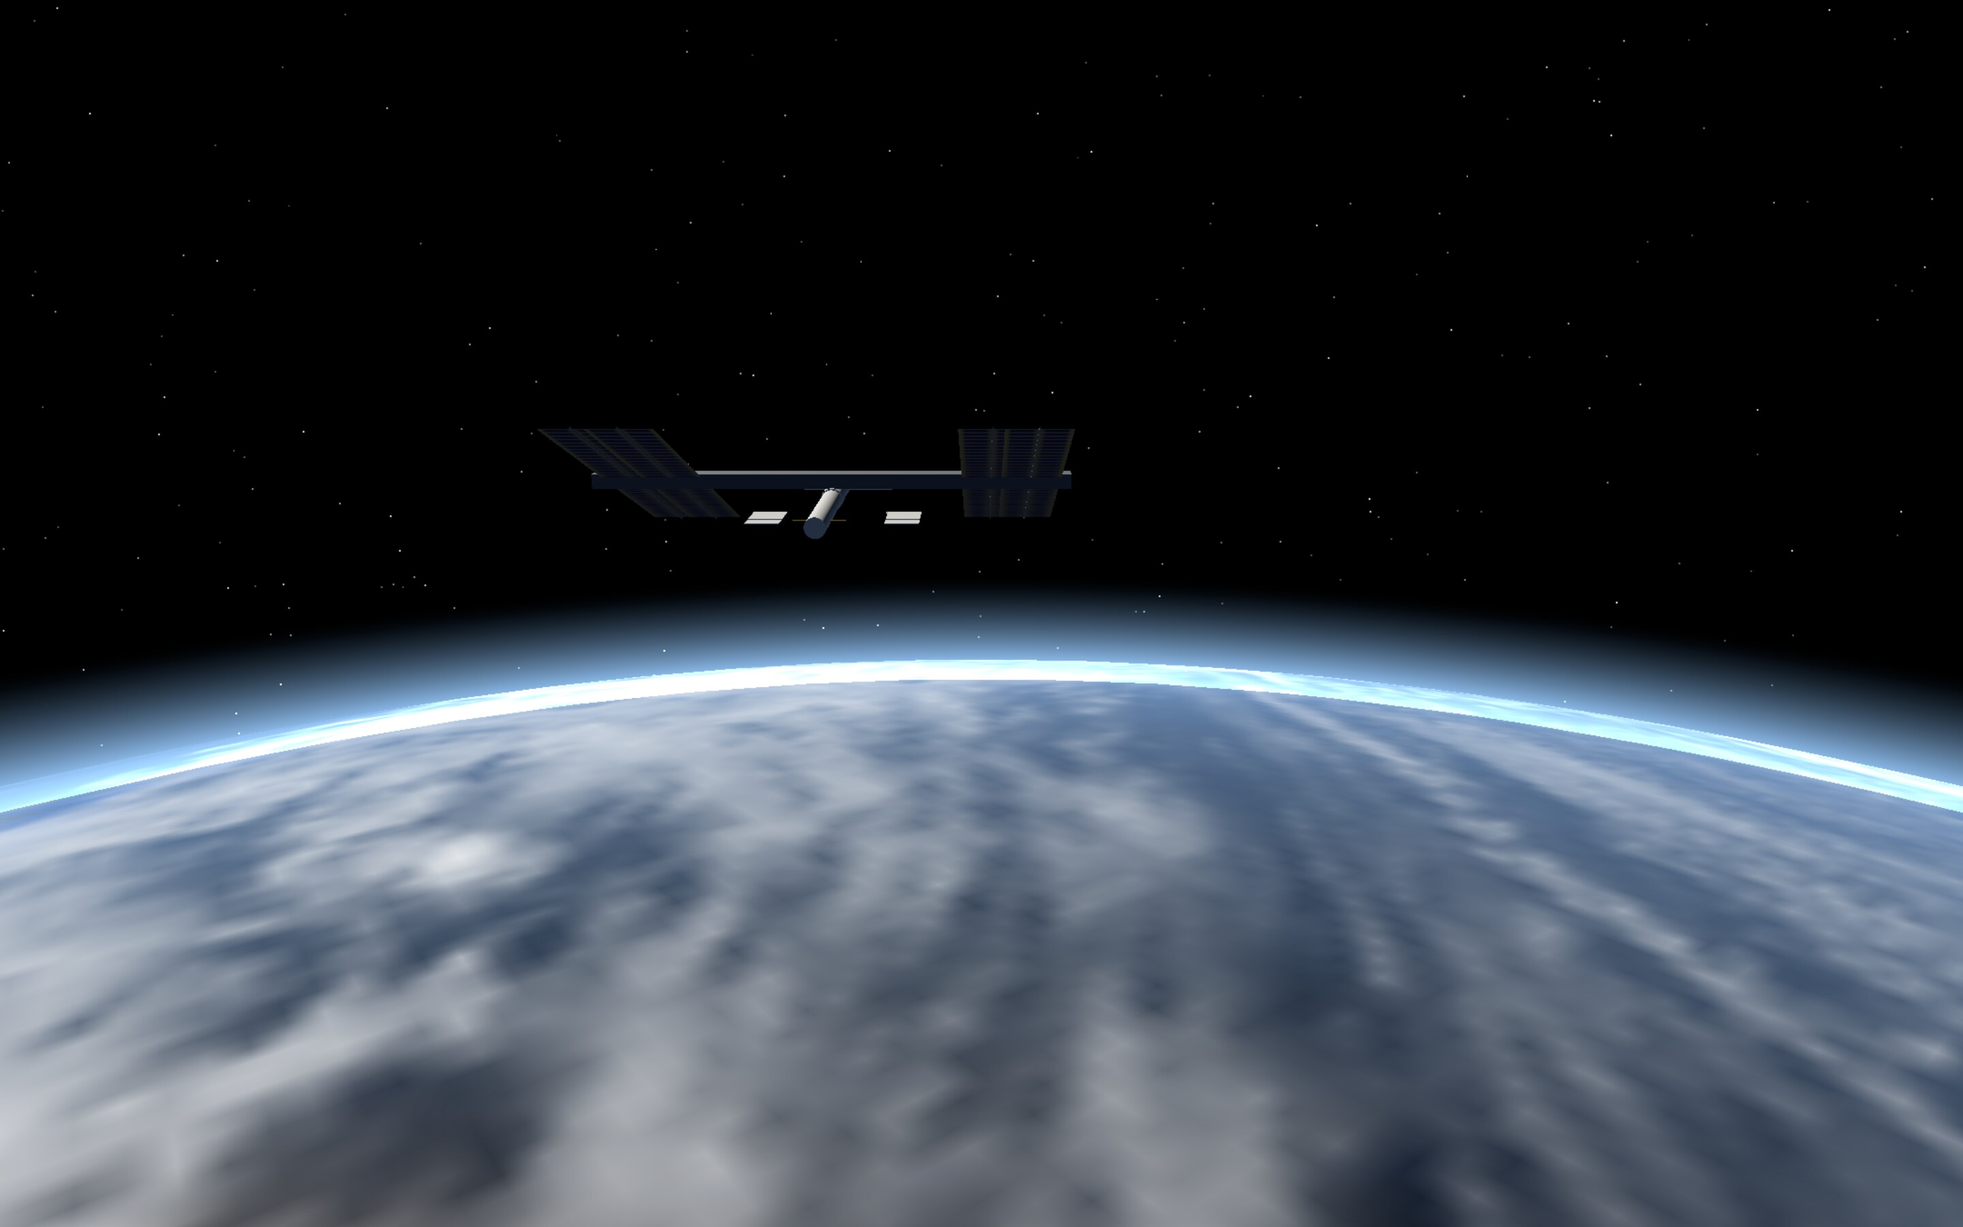
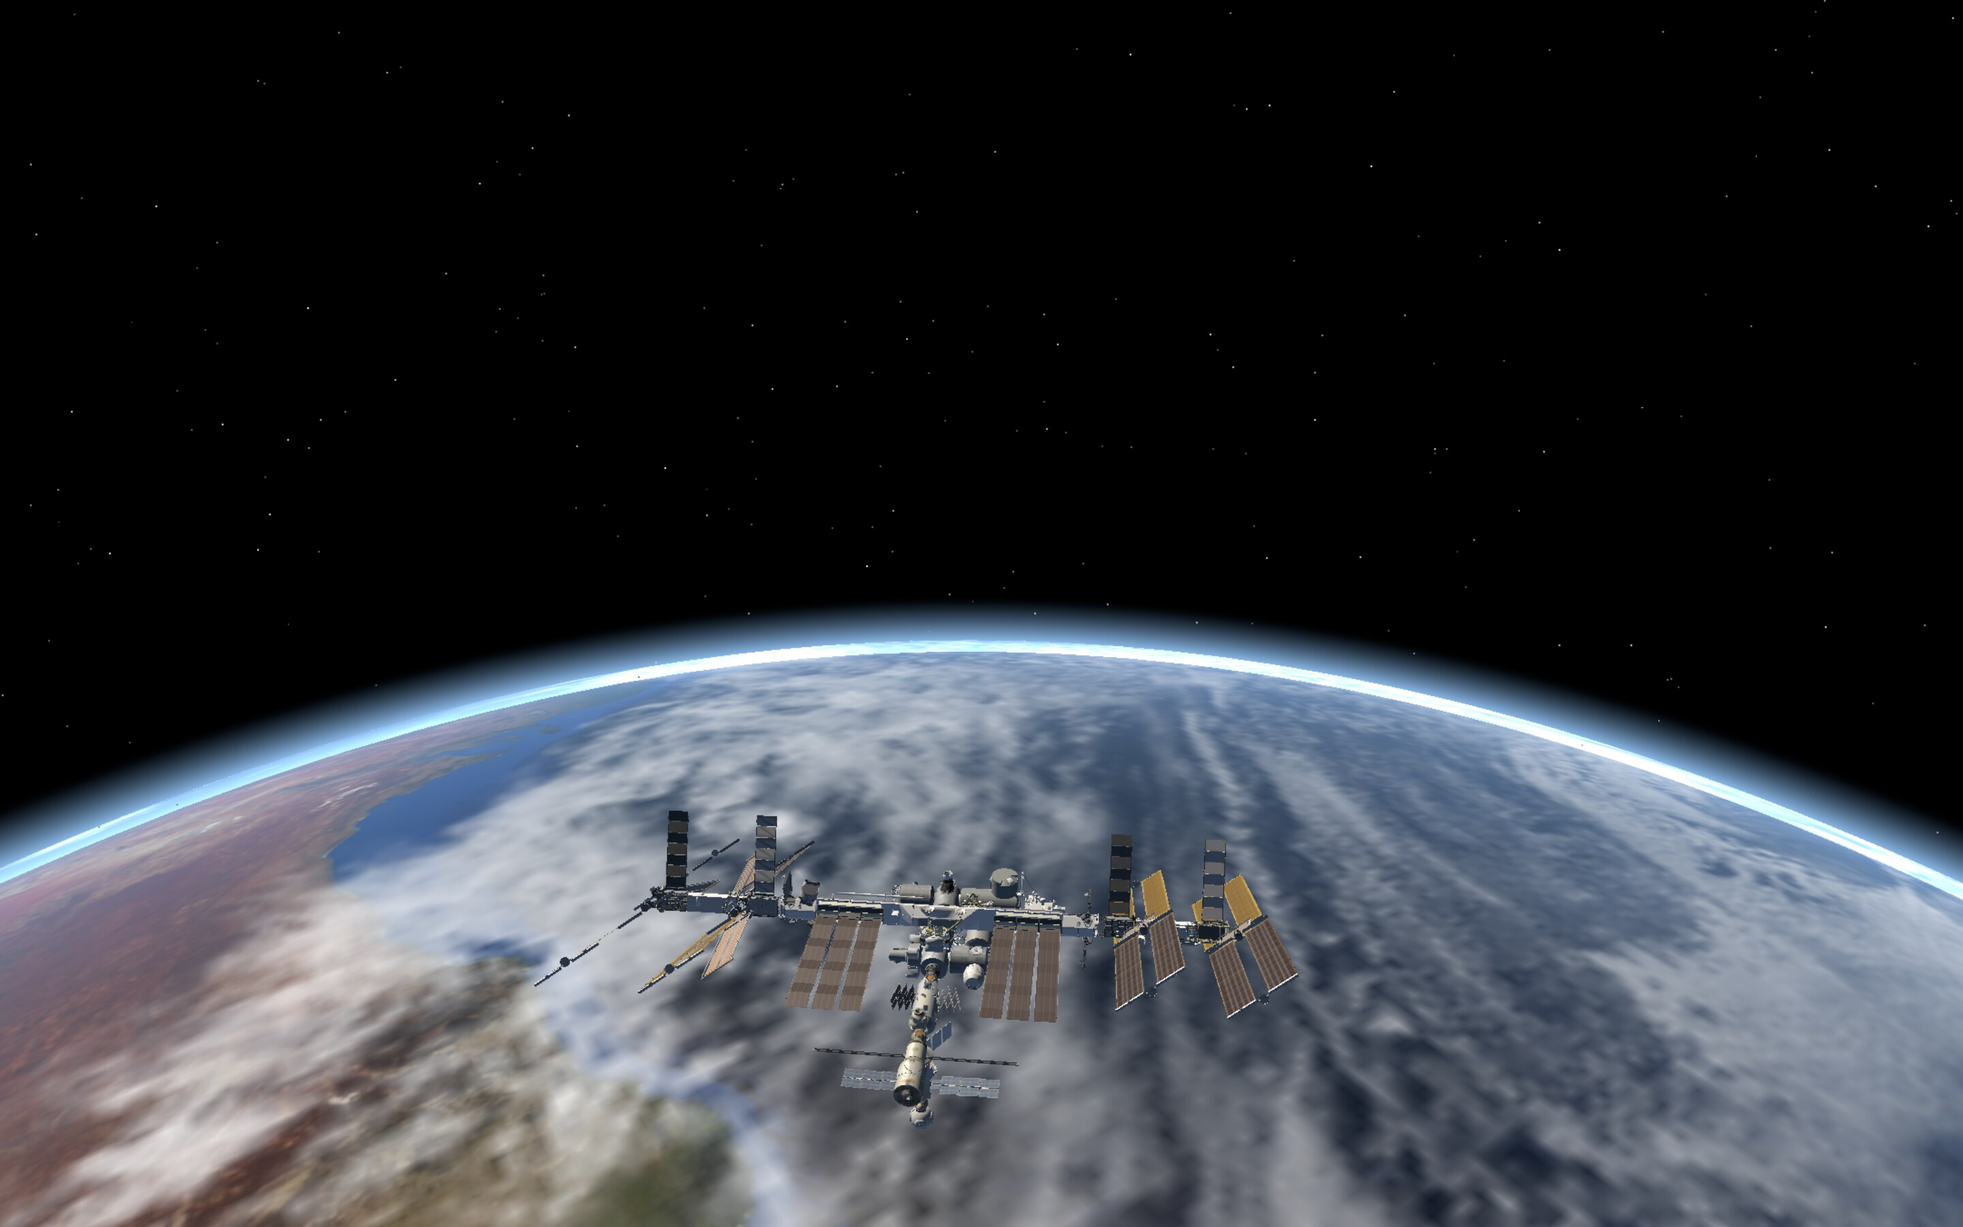
Docs and website: Sun, eclipses, Earth & Moon, NASA ISS model; new renders
Claude-Session: https://claude.ai/code/session_01M7Hy6ZUCUmo8iEq4U2N2NW

diff --git a/site/index.html b/site/index.html
@@ -252,7 +252,7 @@
     <!-- The same renderer the app uses (web/index.html). The script below sets src. -->
     <iframe id="earth" title="The Earth as it looks right now – live rendering" tabindex="-1" aria-hidden="true"></iframe>
     <div class="wrap">
-      <a class="new-pill" href="#beyond"><b>New in 2.0</b> Every planet, the Moon, the ISS &amp; auroras →</a>
+      <a class="new-pill" href="#beyond"><b>New in 2.0</b> Planets, the Sun, the ISS, auroras &amp; eclipses →</a>
       <div class="live">Live · real sunlight</div>
       <h1 id="hero-title">Earth Now <span>Live Earth Wallpaper for Mac</span></h1>
       <p class="lead">Your desktop becomes a window onto our planet – exactly as it looks right now. Day and night in the right places, glowing cities, live clouds, and the space station passing by.</p>
@@ -350,17 +350,32 @@
         <article class="feature">
           <svg viewBox="0 0 24 24" fill="none" stroke="currentColor" stroke-width="1.6" stroke-linecap="round" aria-hidden="true"><rect x="9" y="10" width="6" height="4" rx="1"/><path d="M2 12h7M15 12h7M4 8v8M20 8v8"/></svg>
           <h3>The ISS, live</h3>
-          <p>See where the International Space Station is right now, with its orbit for the next hour and a half.</p>
+          <p>See where the International Space Station is right now, with its orbit for the next hour and a half – shown with NASA's official 3D model.</p>
         </article>
         <article class="feature">
           <svg viewBox="0 0 24 24" fill="none" stroke="currentColor" stroke-width="1.6" stroke-linecap="round" aria-hidden="true"><path d="M2 18c4-5 16-5 20 0"/><path d="M12 6v6M9 9l3 3 3-3"/></svg>
           <h3>Fly with the station</h3>
-          <p>Two new views: ride right behind the ISS with Earth's horizon ahead, or float high above it as it crosses continents and oceans.</p>
+          <p>Two views: follow the ISS with Earth's horizon ahead, or float high above it as it crosses continents and oceans. Its solar arrays turn to the Sun like the real ones.</p>
         </article>
         <article class="feature">
           <svg viewBox="0 0 24 24" fill="none" stroke="currentColor" stroke-width="1.6" stroke-linecap="round" aria-hidden="true"><circle cx="12" cy="12" r="9"/><path d="M12 7v5l3 2"/></svg>
           <h3>When to look up</h3>
           <p>Earth Now tells you when the ISS will next be visible from your place with the naked eye – and how high it will climb.</p>
+        </article>
+        <article class="feature">
+          <svg viewBox="0 0 24 24" fill="none" stroke="currentColor" stroke-width="1.6" stroke-linecap="round" aria-hidden="true"><circle cx="12" cy="12" r="4.5"/><path d="M12 2.5v2M12 19.5v2M2.5 12h2M19.5 12h2M5.3 5.3l1.4 1.4M17.3 17.3l1.4 1.4M5.3 18.7l1.4-1.4M17.3 6.7l1.4-1.4"/><circle cx="10.5" cy="11" r=".7" fill="currentColor"/></svg>
+          <h3>The Sun, today</h3>
+          <p>In the app, the Sun shows today's image from NASA's Solar Dynamics Observatory – with the real sunspots.</p>
+        </article>
+        <article class="feature">
+          <svg viewBox="0 0 24 24" fill="none" stroke="currentColor" stroke-width="1.6" stroke-linecap="round" aria-hidden="true"><circle cx="9" cy="12" r="6"/><circle cx="15" cy="12" r="6" fill="currentColor" fill-opacity=".25"/></svg>
+          <h3>Eclipses, live</h3>
+          <p>During a solar eclipse the Moon's shadow crosses the Earth, within about 100 km of NASA's path. During a lunar eclipse the Moon turns red.</p>
+        </article>
+        <article class="feature">
+          <svg viewBox="0 0 24 24" fill="none" stroke="currentColor" stroke-width="1.6" stroke-linecap="round" aria-hidden="true"><circle cx="8" cy="13" r="5"/><circle cx="19" cy="7" r="1.8"/></svg>
+          <h3>Earth &amp; Moon</h3>
+          <p>Both side by side from far away – real sizes, real distance, and the same phase, just like the famous spacecraft photos.</p>
         </article>
         <article class="feature">
           <svg viewBox="0 0 24 24" fill="none" stroke="currentColor" stroke-width="1.6" stroke-linecap="round" stroke-linejoin="round" aria-hidden="true"><path d="M12 21s-6-5.3-6-11a6 6 0 0 1 12 0c0 5.7-6 11-6 11z"/><circle cx="12" cy="10" r="2.2"/></svg>
@@ -379,6 +394,9 @@
         <figure><img src="assets/screenshots/planets/moon-crescent.jpg" width="2880" height="1800" loading="lazy" alt="A thin crescent Moon with the dark part faintly lit by earthshine"><figcaption><b>Moon</b> – tonight's real phase</figcaption></figure>
         <figure><img src="assets/screenshots/planets/jupiter-aurora.jpg" width="2880" height="1800" loading="lazy" alt="Jupiter with its bands and a bluish aurora ring around the north pole"><figcaption><b>Jupiter</b> – drifting bands and polar aurora</figcaption></figure>
         <figure><img src="assets/screenshots/planets/moon-horizon.jpg" width="2880" height="1800" loading="lazy" alt="A low view across the cratered surface of the Moon towards its horizon"><figcaption><b>Moon horizon</b> – craters in low sunlight</figcaption></figure>
+        <figure><img src="assets/screenshots/planets/solar-eclipse.jpg" width="2880" height="1800" loading="lazy" alt="The Earth with the dark shadow of the Moon over Egypt during the solar eclipse of 2 August 2027"><figcaption><b>Solar eclipse</b> – 2 August 2027 over Egypt</figcaption></figure>
+        <figure><img src="assets/screenshots/planets/lunar-eclipse.jpg" width="2880" height="1800" loading="lazy" alt="The full Moon glowing dark red in Earth's shadow during the total lunar eclipse of 3 March 2026"><figcaption><b>Lunar eclipse</b> – 3 March 2026</figcaption></figure>
+        <figure><img src="assets/screenshots/planets/earth-moon.jpg" width="2880" height="1800" loading="lazy" alt="The Earth and, far behind it, the much smaller Moon, both lit from the same side"><figcaption><b>Earth &amp; Moon</b> – real sizes and distance</figcaption></figure>
       </div>
       <figure class="shot-main" style="margin-top:28px">
         <img src="assets/screenshots/desktop-planets.jpg" width="2880" height="1800" loading="lazy"
@@ -516,7 +534,11 @@
       </details>
       <details>
         <summary>Is the ISS really that big?</summary>
-        <p>In the <em>ISS Chase</em> view it's true to scale – you're about 250 metres behind it. In <em>Above the ISS</em> the camera is 2,500 km up, so the station is shown much larger than it is; otherwise it would be a single pixel.</p>
+        <p>No – in both ISS views the camera is hundreds of kilometres away, high enough for a sharp view of the Earth, so the station is drawn enlarged. At true size it would be just a few pixels. The model itself is NASA's official one.</p>
+      </details>
+      <details>
+        <summary>Will I really see the next eclipse?</summary>
+        <p>Yes. Earth Now calculates the positions of the Sun and the Moon itself, so solar and lunar eclipses appear on your desktop exactly when they happen – the info line tells you when one is in progress. The next total solar eclipse is on 2 August 2027.</p>
       </details>
       <details>
         <summary>Can I turn the animations off?</summary>
@@ -537,7 +559,7 @@
     <div class="wrap">
       <p class="eyebrow">Privacy</p>
       <h2 id="p-title">Your data stays yours</h2>
-      <p><b>The app</b> collects no data. There are no analytics, no accounts and no update checks in the background. It only downloads public data: the cloud map from <code>clouds.matteason.co.uk</code> (every three hours), the ISS orbit from <code>celestrak.org</code> (twice a day, while the ISS is shown) and the aurora activity from <code>services.swpc.noaa.gov</code> (every three hours, while auroras are on). When you search for a place, your search text goes to Apple Maps. Like any web request, these servers see your IP address – nothing else is sent.</p>
+      <p><b>The app</b> collects no data. There are no analytics, no accounts and no update checks in the background. It only downloads public data: the cloud map from <code>clouds.matteason.co.uk</code> (every three hours), the ISS orbit from <code>celestrak.org</code> (twice a day, while the ISS is shown) the aurora activity from <code>services.swpc.noaa.gov</code> (every three hours, while auroras are on) and an image of the Sun from <code>sdo.gsfc.nasa.gov</code> (hourly, while the Sun is shown). When you search for a place, your search text goes to Apple Maps. Like any web request, these servers see your IP address – nothing else is sent.</p>
       <p><b>This website</b> uses no cookies, no trackers and no external fonts. It is hosted on GitHub Pages; GitHub may log your IP address for security reasons (see <a href="https://docs.github.com/en/site-policy/privacy-policies/github-general-privacy-statement">GitHub's privacy statement</a>). The live Earth at the top of this page loads its cloud map from <code>clouds.matteason.co.uk</code>, the ISS orbit from <code>celestrak.org</code> and the aurora activity from <code>services.swpc.noaa.gov</code>.</p>
     </div>
   </section>
@@ -585,6 +607,16 @@
               <td>ISS orbit</td>
               <td><a href="https://celestrak.org">CelesTrak</a> (T. S. Kelso), propagated with <a href="https://github.com/shashwatak/satellite-js">satellite.js</a></td>
               <td>Public data · satellite.js: MIT License</td>
+            </tr>
+            <tr>
+              <td>ISS 3D model</td>
+              <td>NASA, <em>International Space Station (D) (IGOAL)</em>, <a href="https://github.com/nasa/NASA-3D-Resources">NASA 3D Resources</a></td>
+              <td>NASA media, no copyright – reduced in size</td>
+            </tr>
+            <tr>
+              <td>The Sun</td>
+              <td>NASA Solar Dynamics Observatory (HMI)</td>
+              <td>Courtesy of NASA/SDO and the AIA, EVE, and HMI science teams</td>
             </tr>
             <tr>
               <td>Aurora activity</td>

diff --git a/README.md b/README.md
@@ -39,8 +39,12 @@ where the big storms are. It's calm, it's real, and it barely touches your batte
   (JPL orbital elements, IAU rotation models). Saturn's rings cast real shadows.
 - 🌒 **As Seen from Earth** – the Moon's real phase tonight with a faint earthshine, Venus as a
   crescent when it passes between us and the Sun.
-- 🛰 **The ISS, live** – the space station's real position and orbit, plus two new views: *ISS Chase*
-  (right behind it, Earth's horizon ahead) and *Above the ISS*.
+- ☀ **The Sun** – with today's image from NASA's Solar Dynamics Observatory, sunspots included.
+- 🌑 **Eclipses, live** – the Moon's shadow crosses the Earth during solar eclipses (within ~100 km of
+  NASA's path), the Moon turns red during lunar eclipses.
+- 🌍🌕 **Earth & Moon** – both side by side from far away, at real sizes and distance.
+- 🛰 **The ISS, live** – the space station's real position and orbit, shown with NASA's official 3D
+  model (solar arrays track the Sun), plus two views: *ISS Chase* and *Above the ISS*.
 - 👀 **When to look up** – the info line tells you when the ISS is next visible from your place.
 - 🌌 **Auroras** – northern and southern lights on the night side, sized by NOAA's live geomagnetic
   activity; polar auroras on Jupiter and Saturn.
@@ -52,6 +56,8 @@ where the big storms are. It's calm, it's real, and it barely touches your batte
 | ![ISS Chase](docs/screenshots/planets/iss-chase.jpg) **ISS Chase** – along its real orbit | ![Above the ISS](docs/screenshots/planets/iss-above.jpg) **Above the ISS** – the route ahead |
 | ![Saturn](docs/screenshots/planets/saturn.jpg) **Saturn** – rings and shadows | ![Aurora](docs/screenshots/planets/aurora.jpg) **Aurora** – during a geomagnetic storm |
 | ![Moon](docs/screenshots/planets/moon-crescent.jpg) **Moon** – tonight's real phase | ![Jupiter](docs/screenshots/planets/jupiter-aurora.jpg) **Jupiter** – drifting bands, polar aurora |
+| ![Solar eclipse](docs/screenshots/planets/solar-eclipse.jpg) **Solar eclipse** – 2 August 2027 over Egypt | ![Lunar eclipse](docs/screenshots/planets/lunar-eclipse.jpg) **Lunar eclipse** – 3 March 2026 |
+| ![Earth & Moon](docs/screenshots/planets/earth-moon.jpg) **Earth & Moon** – real sizes and distance | ![Sun](docs/screenshots/planets/sun.jpg) **Sun** – live image in the app |
 
 ## Features
 
@@ -146,8 +152,8 @@ downloads public data (cloud map, ISS orbit, aurora activity) and, when you sear
 the search text to Apple Maps. See [SECURITY.md](SECURITY.md) for details.
 
 **How exact is the ISS?** Within a few kilometres: the orbit comes from CelesTrak twice a day and is
-propagated with SGP4. In *Above the ISS* the station is drawn enlarged – at true size it would be a
-single pixel from 2,500 km up.
+propagated with SGP4. In both ISS views the camera is hundreds of kilometres away – high enough for a
+sharp Earth – so the station is drawn enlarged; at true size it would be a few pixels.
 
 ## Build from source
 
@@ -173,7 +179,8 @@ app/main.swift        macOS app: desktop windows, menu bar, settings (SwiftUI)
 app/Localization/     UI translations
 web/index.html        renderer (three.js / WebGL shaders, sun position, auroras)
 web/planets.js        planet & Moon positions and rotation (tests: web/tests/run.sh)
-web/iss.js            ISS: orbit (SGP4), marker, 3D model, camera views
+web/iss.js            ISS: orbit (SGP4), marker, NASA 3D model, camera views
+web/models/iss.glb    NASA's ISS model, reduced (design/iss)
 web/textures/         NASA Earth textures (8K day, 4K night) and helper maps
 site/                 website (GitHub Pages)
 design/               app icon and marketing images

diff --git a/CREDITS.md b/CREDITS.md
@@ -10,7 +10,9 @@ Earth Now is built on the work of others. Thank you!
 | Night lights (`web/textures/night.jpg`) | NASA Earth Observatory, *Black Marble 2016* | Public domain (US government work). Credit: "NASA Earth Observatory / Suomi NPP VIIRS" |
 | Static clouds, normal & specular maps (`clouds.png`, `normal.jpg`, `specular.jpg`) | three.js example textures (`examples/textures/planets`) | MIT License, see below |
 | Planets & Moon (`web/textures/planets/*`) | [Solar System Scope](https://www.solarsystemscope.com/textures/), based on NASA mission data; downloaded and resized by `design/planets/fetch-textures.sh` | [CC BY 4.0](https://creativecommons.org/licenses/by/4.0/). Credit: "Solar System Scope". Resized, otherwise unchanged |
-| Planet positions & rotation | JPL *Keplerian Elements for Approximate Positions of the Major Planets* (E. M. Standish), IAU WGCCRE rotation elements, Astronomical Almanac (Moon) | Published formulas and constants |
+| Planet positions & rotation | JPL *Keplerian Elements for Approximate Positions of the Major Planets* (E. M. Standish), IAU WGCCRE rotation elements, J. Meeus *Astronomical Algorithms* (Moon) | Published formulas and constants |
+| ISS 3D model (`web/models/iss.glb`) | NASA, *International Space Station (ISS) (D) (IGOAL)* from [NASA-3D-Resources](https://github.com/nasa/NASA-3D-Resources), reduced (see `design/iss`) | NASA media, no copyright; NASA's media usage guidelines apply |
+| Image of the Sun (loaded at runtime by the app) | NASA Solar Dynamics Observatory, HMI | Courtesy of NASA/SDO and the AIA, EVE, and HMI science teams |
 | ISS orbit (loaded at runtime, fallback in `web/data/iss.tle`) | [CelesTrak](https://celestrak.org) (T. S. Kelso) | Public orbital data (NORAD 25544) |
 | Aurora activity (loaded at runtime) | NOAA Space Weather Prediction Center, planetary K-index | Public domain (US government work) |
 | Live clouds (loaded at runtime) | [matteason/live-cloud-maps](https://github.com/matteason/live-cloud-maps), images CC0 1.0 | **Required notice:** *Contains modified EUMETSAT data* ([EUMETSAT data licensing](https://www.eumetsat.int/eumetsat-data-licensing)) |
@@ -24,6 +26,7 @@ and on the website.
 |---|---|---|
 | [three.js](https://threejs.org) (`web/lib/three.module.min.js`) | 0.160.0 | MIT, full text: [`licenses/three.js-LICENSE.txt`](licenses/three.js-LICENSE.txt) |
 | [satellite.js](https://github.com/shashwatak/satellite-js) (`web/lib/satellite.min.js`, SGP4 subset) | 7.1.0 | MIT, full text: [`licenses/satellite.js-LICENSE.txt`](licenses/satellite.js-LICENSE.txt) |
+| three.js GLTFLoader + MeshoptDecoder (`web/lib/gltf.min.js`) | 0.160.0 | MIT (same as three.js) |
 
 ## Not affiliated
 

diff --git a/CHANGELOG.md b/CHANGELOG.md
@@ -21,10 +21,16 @@ The whole Solar System – and the space station – on your desktop.
 - **Places on other worlds:** Olympus Mons, Valles Marineris, Jezero and Gale crater on Mars; Apollo 11,
   Tycho and the far side of the Moon; Jupiter's Great Red Spot and more. The app remembers your
   place on each world.
+- **The Sun** as its own world – in the app with today's image from NASA's Solar Dynamics
+  Observatory, sunspots included.
+- **Eclipses, live.** During a solar eclipse the Moon's shadow crosses the Earth (within about 100 km
+  of NASA's predicted path); during a lunar eclipse the Moon turns red in Earth's shadow.
+- **Earth & Moon:** a new view with both, from far away – real sizes, real distance, same phase.
 - **The ISS, live.** The International Space Station's real position with its orbit for the next
-  90 minutes, updated from CelesTrak twice a day and calculated every frame (SGP4).
-- **Two ISS views:** *ISS Chase* flies right behind the station with Earth's horizon ahead;
-  *Above the ISS* floats high above it as it crosses continents and oceans.
+  90 minutes, updated from CelesTrak twice a day and calculated every frame (SGP4). Shown with
+  NASA's official 3D model, solar arrays turning to the Sun like the real ones.
+- **Two ISS views:** *ISS Chase* follows the station with Earth's horizon ahead; *Above the ISS*
+  floats high above it as it crosses continents and oceans.
 - **When to look up:** the info line shows when the ISS will next be visible from your place with the
   naked eye, and how high it will climb.
 - **Auroras.** Northern and southern lights on Earth's night side, sized and brightened by NOAA's
@@ -36,8 +42,8 @@ The whole Solar System – and the space station – on your desktop.
 
 ### Notes
 - Planet and Moon textures: Solar System Scope, CC BY 4.0 (based on NASA mission data).
-- New network requests, both only while the feature is on: `celestrak.org` (ISS orbit) and
-  `services.swpc.noaa.gov` (aurora activity). See SECURITY.md.
+- New network requests, each only while the feature is on: `celestrak.org` (ISS orbit),
+  `services.swpc.noaa.gov` (aurora activity) and `sdo.gsfc.nasa.gov` (image of the Sun). See SECURITY.md.
 - Your settings from version 1 are kept.
 
 [2.0.0]: https://github.com/Hensobo/earth-now/releases/tag/v2.0.0

diff --git a/SECURITY.md b/SECURITY.md
@@ -18,7 +18,8 @@ To make reviews easier, here is everything the app touches:
 
 - **Network:** only downloads public data – cloud images from `clouds.matteason.co.uk` (every three
   hours), the ISS orbit from `celestrak.org` (twice a day, while the ISS is shown) and the aurora
-  activity from `services.swpc.noaa.gov` (every three hours, while auroras are on). When you search
+  activity from `services.swpc.noaa.gov` (every three hours, while auroras are on) and an image of the Sun
+  from `sdo.gsfc.nasa.gov` (hourly, while the Sun is shown). When you search
   for a place, the search text goes to Apple Maps. Nothing else – no analytics, no accounts, no
   update pings.
 - **Files:** reads its own app bundle; stores settings in `~/Library/Preferences/io.github.hensobo.earthnow.plist`.
